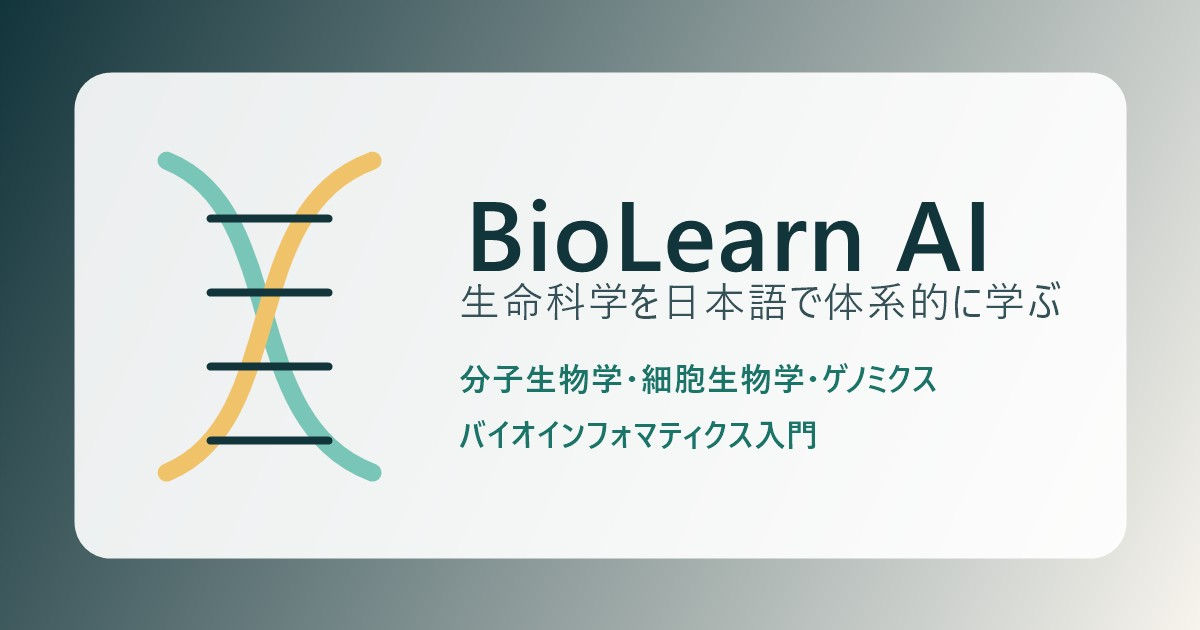
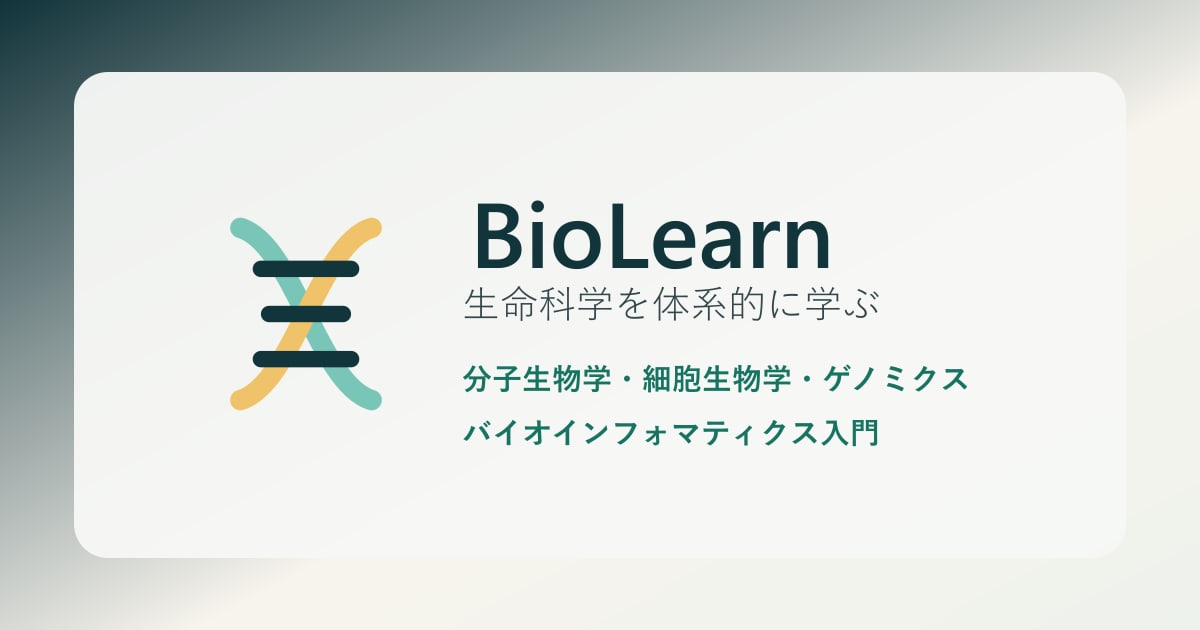
Rename site brand to BioLearn

diff --git a/docs/PROJECT_BRIEF.md b/docs/PROJECT_BRIEF.md
@@ -2,7 +2,7 @@
 
 ## 概要
 
-BioLearn AI は、生命科学を初学者が体系的に学ぶための日本語教材サイトです。対象分野は、分子生物学、細胞生物学、ゲノミクス、バイオインフォマティクス、論文Figureの読み方です。
+BioLearnは、生命科学を初学者が体系的に学ぶための日本語教材サイトです。対象分野は、分子生物学、細胞生物学、ゲノミクス、バイオインフォマティクス、論文Figureの読み方です。
 
 ## 対象読者
 

diff --git a/README.md b/README.md
@@ -1,6 +1,6 @@
-# BioLearn AI
+# BioLearn
 
-BioLearn AI は、分子生物学・細胞生物学・ゲノミクス・バイオインフォマティクスを日本語で体系的に学ぶための教材サイトです。
+BioLearnは、分子生物学・細胞生物学・ゲノミクス・バイオインフォマティクスを日本語で体系的に学ぶための生命科学教材サイトです。
 
 公開 URL は `https://biolearn.ai/` です。GitHub Organization は `ingcreators` です。
 

diff --git a/docs/CONTENT_GUIDELINES.md b/docs/CONTENT_GUIDELINES.md
@@ -2,7 +2,7 @@
 
 ## 基本方針
 
-BioLearn AI の本文は、初学者がつまずきやすい点を先回りして説明します。専門用語は避けすぎず、日本語名、英語名、略語を併記して段階的に慣れてもらいます。
+BioLearn の本文は、初学者がつまずきやすい点を先回りして説明します。専門用語は避けすぎず、日本語名、英語名、略語を併記して段階的に慣れてもらいます。
 
 ## 文体
 

diff --git a/LICENSE-CONTENT.md b/LICENSE-CONTENT.md
@@ -1,6 +1,6 @@
 # Content License
 
-Educational content, articles, diagrams, figures, and other learning materials in BioLearn AI are licensed under the Creative Commons Attribution-NonCommercial-ShareAlike 4.0 International License.
+Educational content, articles, diagrams, figures, and other learning materials in BioLearn are licensed under the Creative Commons Attribution-NonCommercial-ShareAlike 4.0 International License.
 
 SPDX-style identifier:
 

diff --git a/AGENTS.md b/AGENTS.md
@@ -2,7 +2,7 @@
 
 ## Project overview
 
-BioLearn AI is a Japanese learning site for molecular biology, cell biology, genomics, and bioinformatics.
+BioLearn is a Japanese learning site for molecular biology, cell biology, genomics, and bioinformatics.
 
 ## Development rules
 
